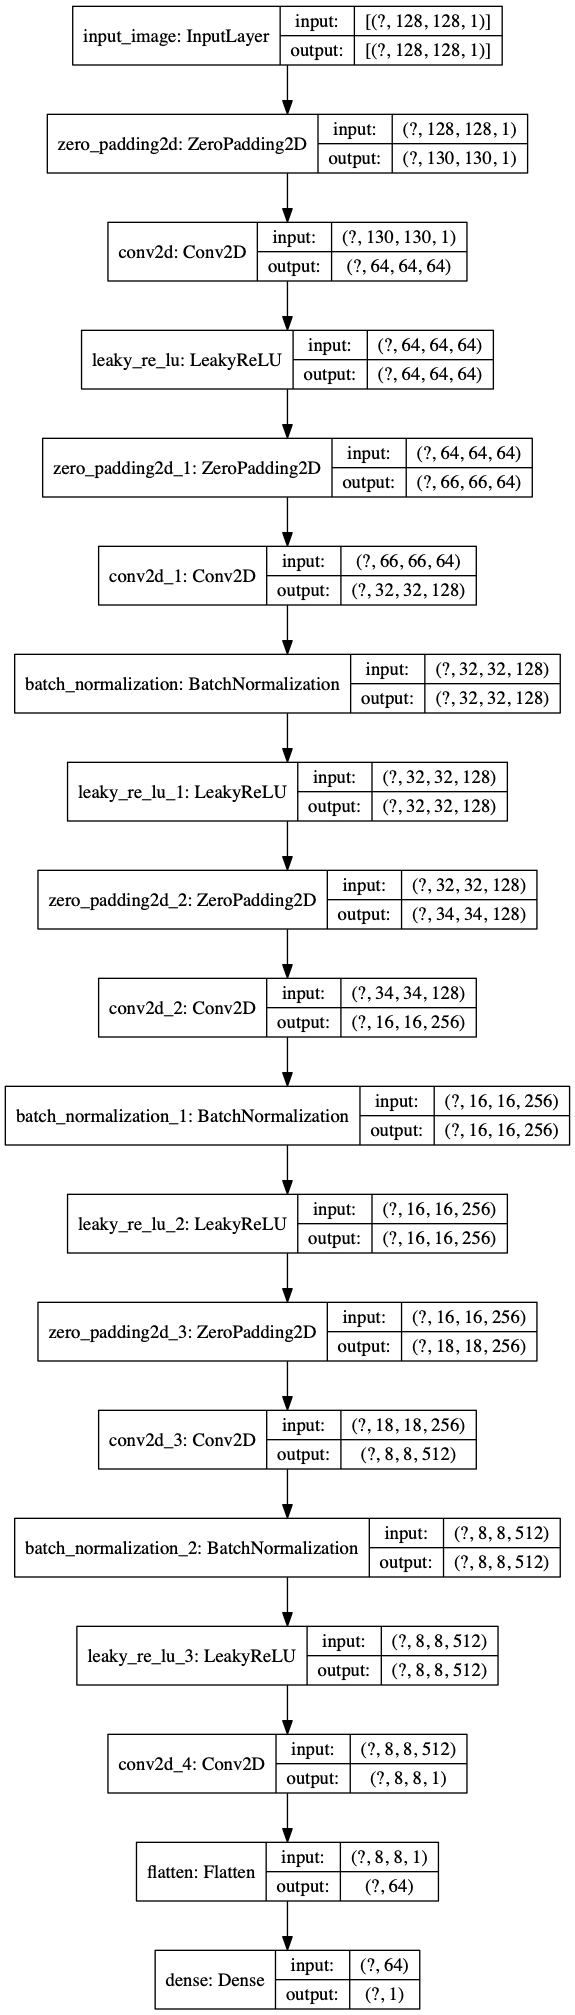
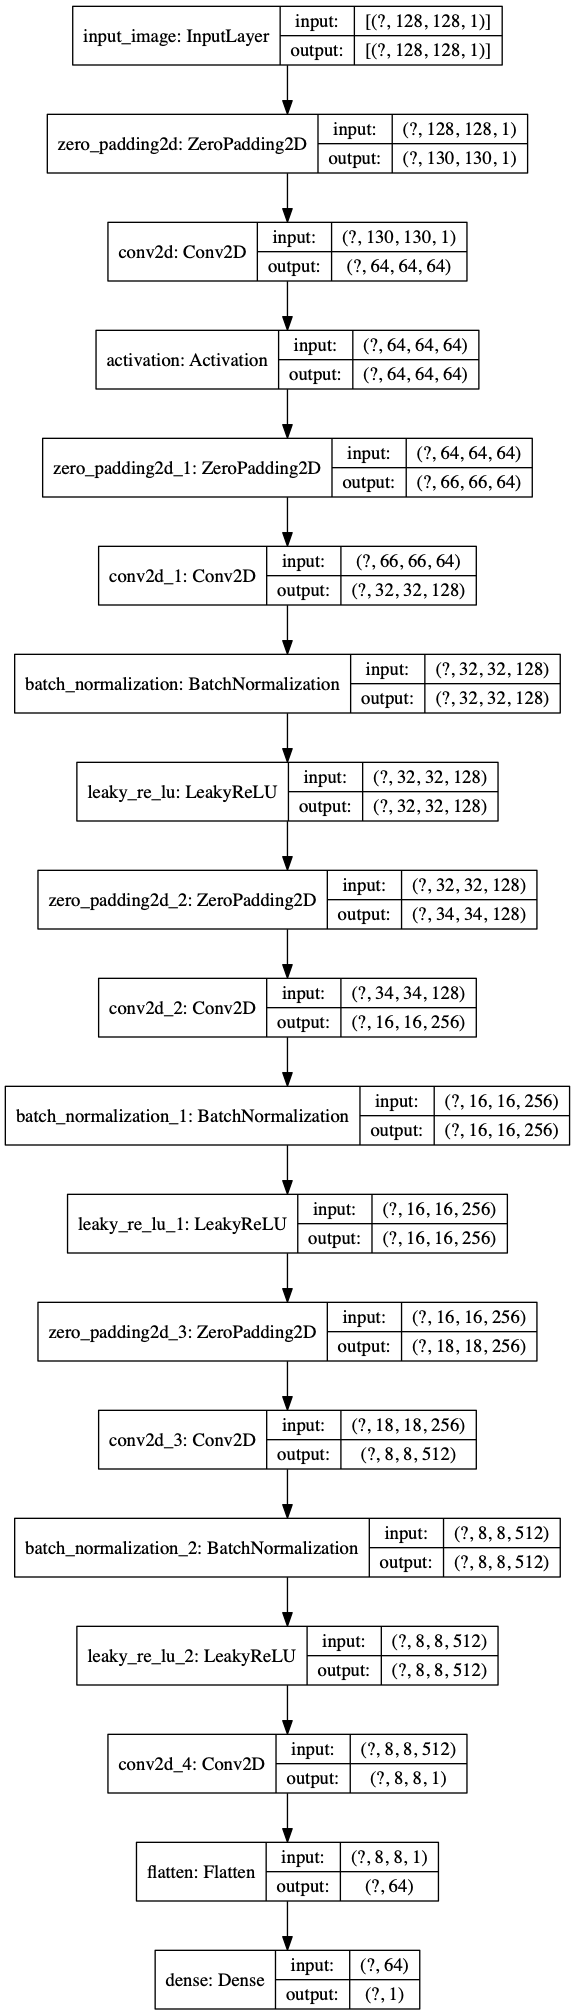
update

diff --git a/model.py b/model.py
@@ -288,7 +288,7 @@ def make_discriminator_model(len_low_size=16, scale=4):
     zero_pad = tf.keras.layers.ZeroPadding2D()(leaky_relu)
     conv = tf.keras.layers.Conv2D(512, 4, strides=2, padding='valid', use_bias=False)(zero_pad)
     batchnorm = tf.keras.layers.BatchNormalization()(conv)
-    leaky_relu = tf.keras.layers.LeakyReLU(0.2)(batchnorm)
+    leaky_relu = tf.keras.layers.Activation('tanh')(batchnorm)
 
     last = tf.keras.layers.Conv2D(1, 1, strides=1, padding='valid', use_bias=False)(leaky_relu)
     last = tf.keras.layers.Flatten()(last)
